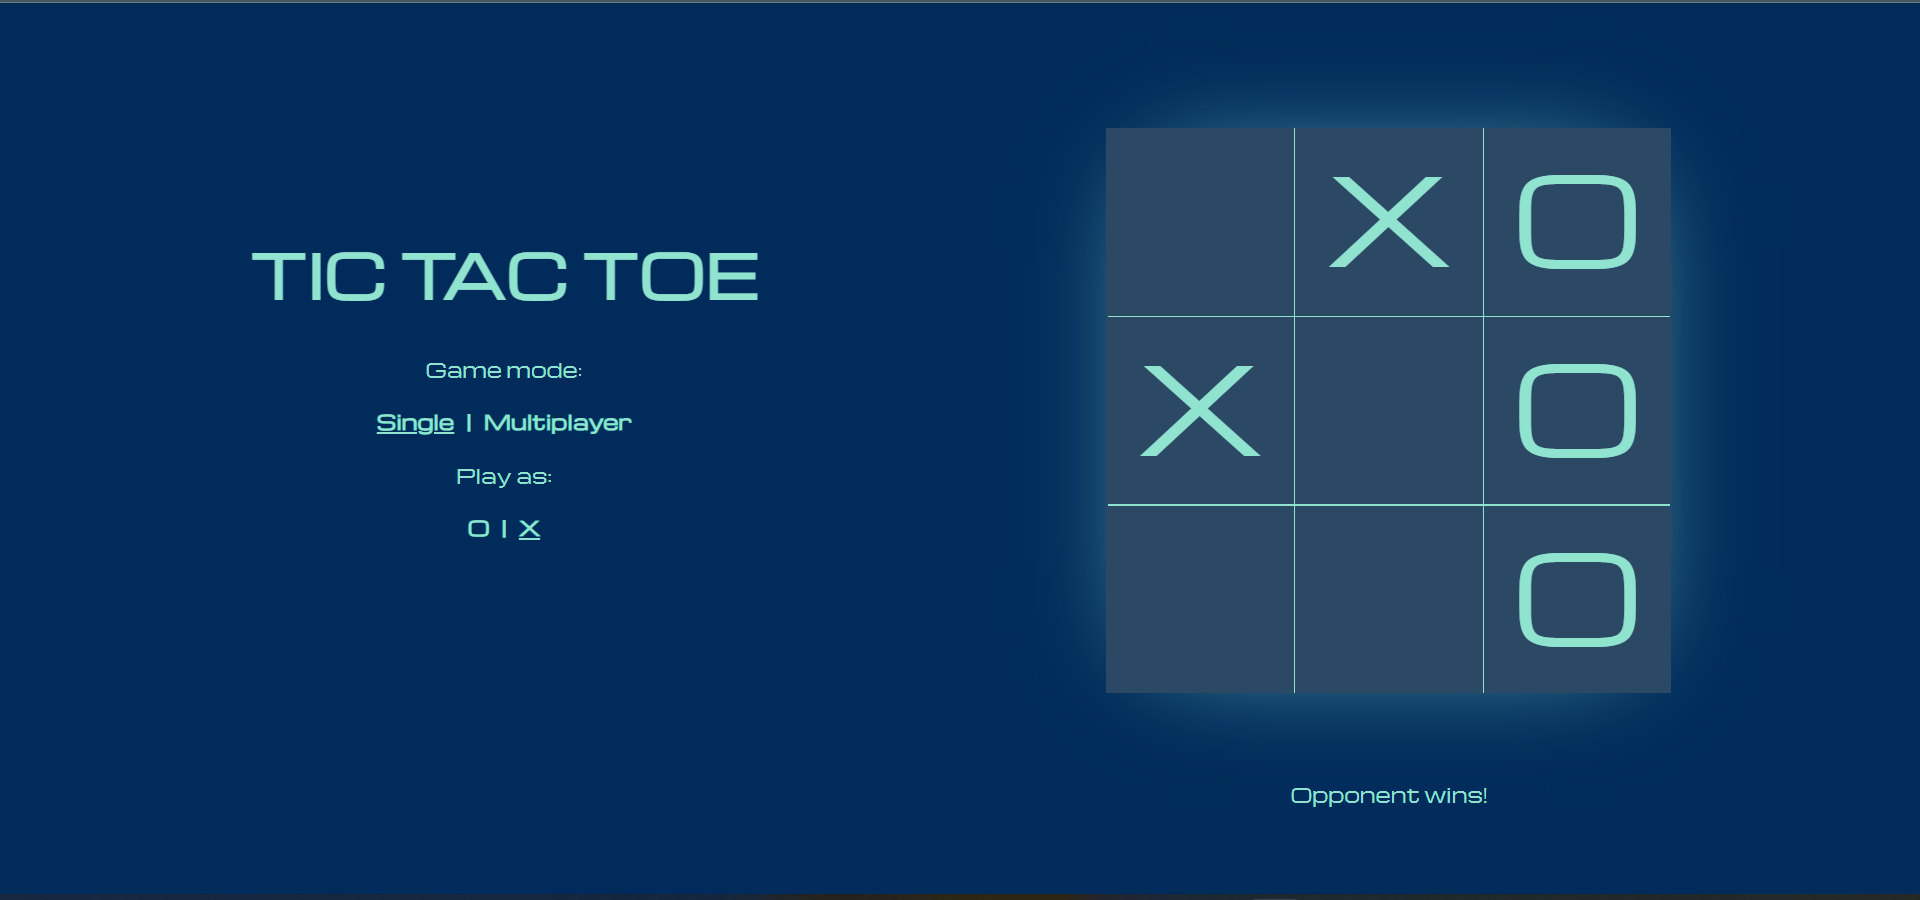
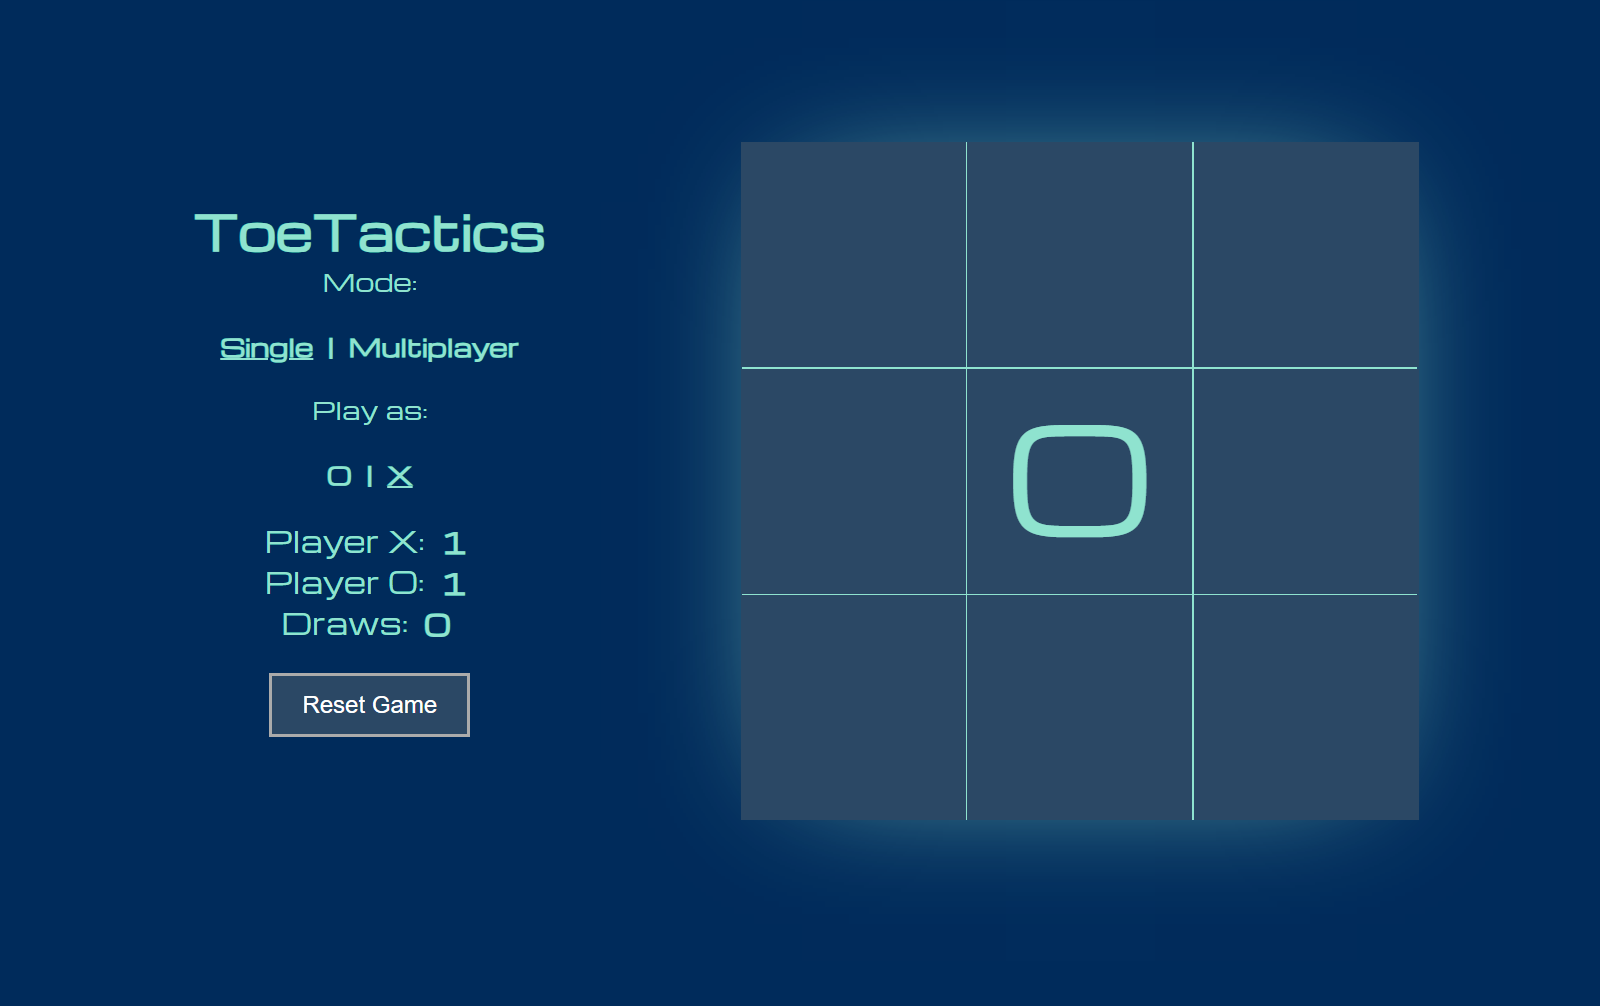
updates

diff --git a/index.html b/index.html
@@ -12,7 +12,8 @@
 			<header id="header">
 				<div class="inner">
 					<a href="#" class="image avatar"><img src="images/avatar.jpg" alt=""/></a>
-					<h1><strong>I'm Maria Mae M. Kiskis</strong>, a <br>software developer</h1>
+					<h1><strong>Maria Mae M. Kiskis</strong></h1>
+					<p>software developer</p>
 				</div>
 			</header>
 
@@ -24,7 +25,7 @@
 						<header class="major">
 							<h2>About me</h2>
 						</header>
-						<p>I have a strong passion for technology and programming. My career journey has led me to specialize in web development.</p>
+						<p>I have a strong passion for technology and programming.</p>
 					</section>
 
 				<!-- Two -->
@@ -32,14 +33,14 @@
 						<h2>Recent Work</h2>
 						<div class="row">
 							<article class="col-6 col-12-xsmall work-item">
-								<a target="_blank" href="https://makiweeb13.github.io/Tic-tac-toe/" class="image fit thumb"><img src="./images/tictactoe.png" alt="" /></a>
-								<h3>Tic tac toe</h3>
-								<p>A tic tac toe game implemented using JavaScript.</p>
+								<a target="_blank" href="https://github.com/makiweeb13/recco" class="image fit thumb"><img src="./images/recco.png" alt="" /></a>
+								<h3>Recco</h3>
+								<p>A social media platform designed for users to share and recommend their favorite shows across a variety of mediums and genres.</p>
 							</article>
 							<article class="col-6 col-12-xsmall work-item">
-								<a target="_blank" href="https://makiweeb13.github.io/shopping-cart/" class="image fit thumb"><img src="./images/shopping-cart.png" alt="" /></a>
-								<h3>Shopping Cart</h3>
-								<p>A shopping site with a shopping cart.</p>
+								<a target="_blank" href="https://github.com/makiweeb13/Toetactics/tree/main" class="image fit thumb"><img src="./images/tictactoe.png" alt="" /></a>
+								<h3>ToeTactics</h3>
+								<p>A web based game inspired from tic tac toe implemented using HTML, CSS, and JavaScript.</p>
 							</article>
 						</div>
 						<ul class="actions">
@@ -62,11 +63,11 @@
 									</li>
 									<li>
 										<h3 class="icon solid fa-mobile-alt"><span class="label">Phone</span></h3>
-										09603614906
+										09998013725
 									</li>
 									<li>
 										<h3 class="icon solid fa-envelope"><span class="label">Email</span></h3>
-										<a href="#">mariamaekiskis13@gmail.com</a>
+										<a href="mailto:mariamaekiskis13@gmail.com">mariamaekiskis13@gmail.com</a>
 									</li>
 								</ul>
 							</div>
@@ -78,10 +79,10 @@
 			<footer id="footer">
 				<div class="inner">
 					<ul class="icons">
-						<li><a href="#" class="icon brands fa-facebook"><span class="label">Facebook</span></a></li>
+						<li><a href="https://www.facebook.com/mariamae.kiskis.96/" class="icon brands fa-facebook"><span class="label">Facebook</span></a></li>
 						<li><a href="https://github.com/makiweeb13" class="icon brands fa-github"><span class="label">Github</span></a></li>
-						<li><a href="#" class="icon brands fa-linkedin"><span class="label">Linked In</span></a></li>
-						<li><a href="#" class="icon solid fa-envelope"><span class="label">Email</span></a></li>
+						<li><a href="https://www.linkedin.com/in/maria-mae-kiskis-648954257/" class="icon brands fa-linkedin"><span class="label">Linked In</span></a></li>
+						<li><a href="mailto:mariamaekiskis13@gmail.com" class="icon solid fa-envelope"><span class="label">Email</span></a></li>
 					</ul>
 					<ul class="copyright">
 						<li>&copy; Personal Portfolio</li><li>Site Host <a href="https://github.com/makiweeb13">Maki</a></li>
